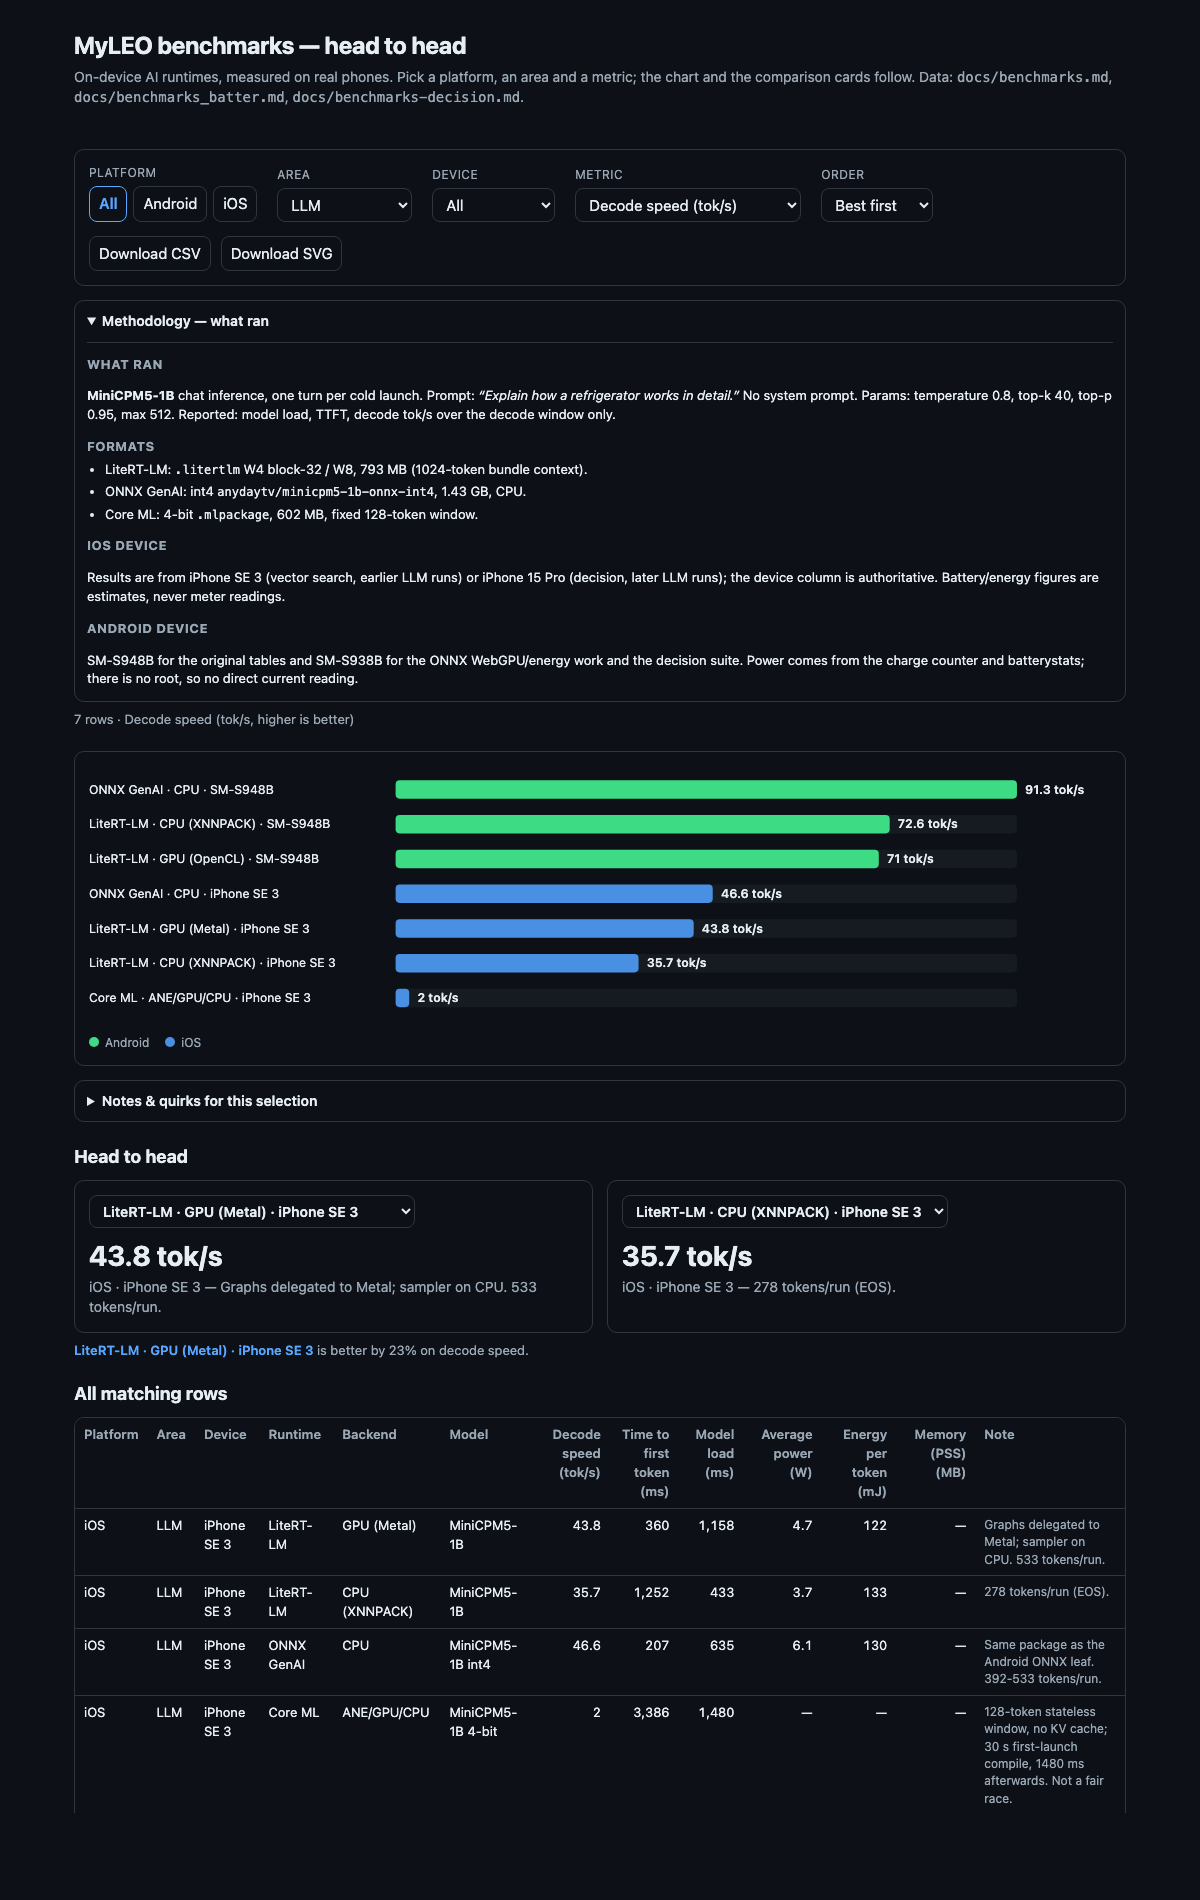
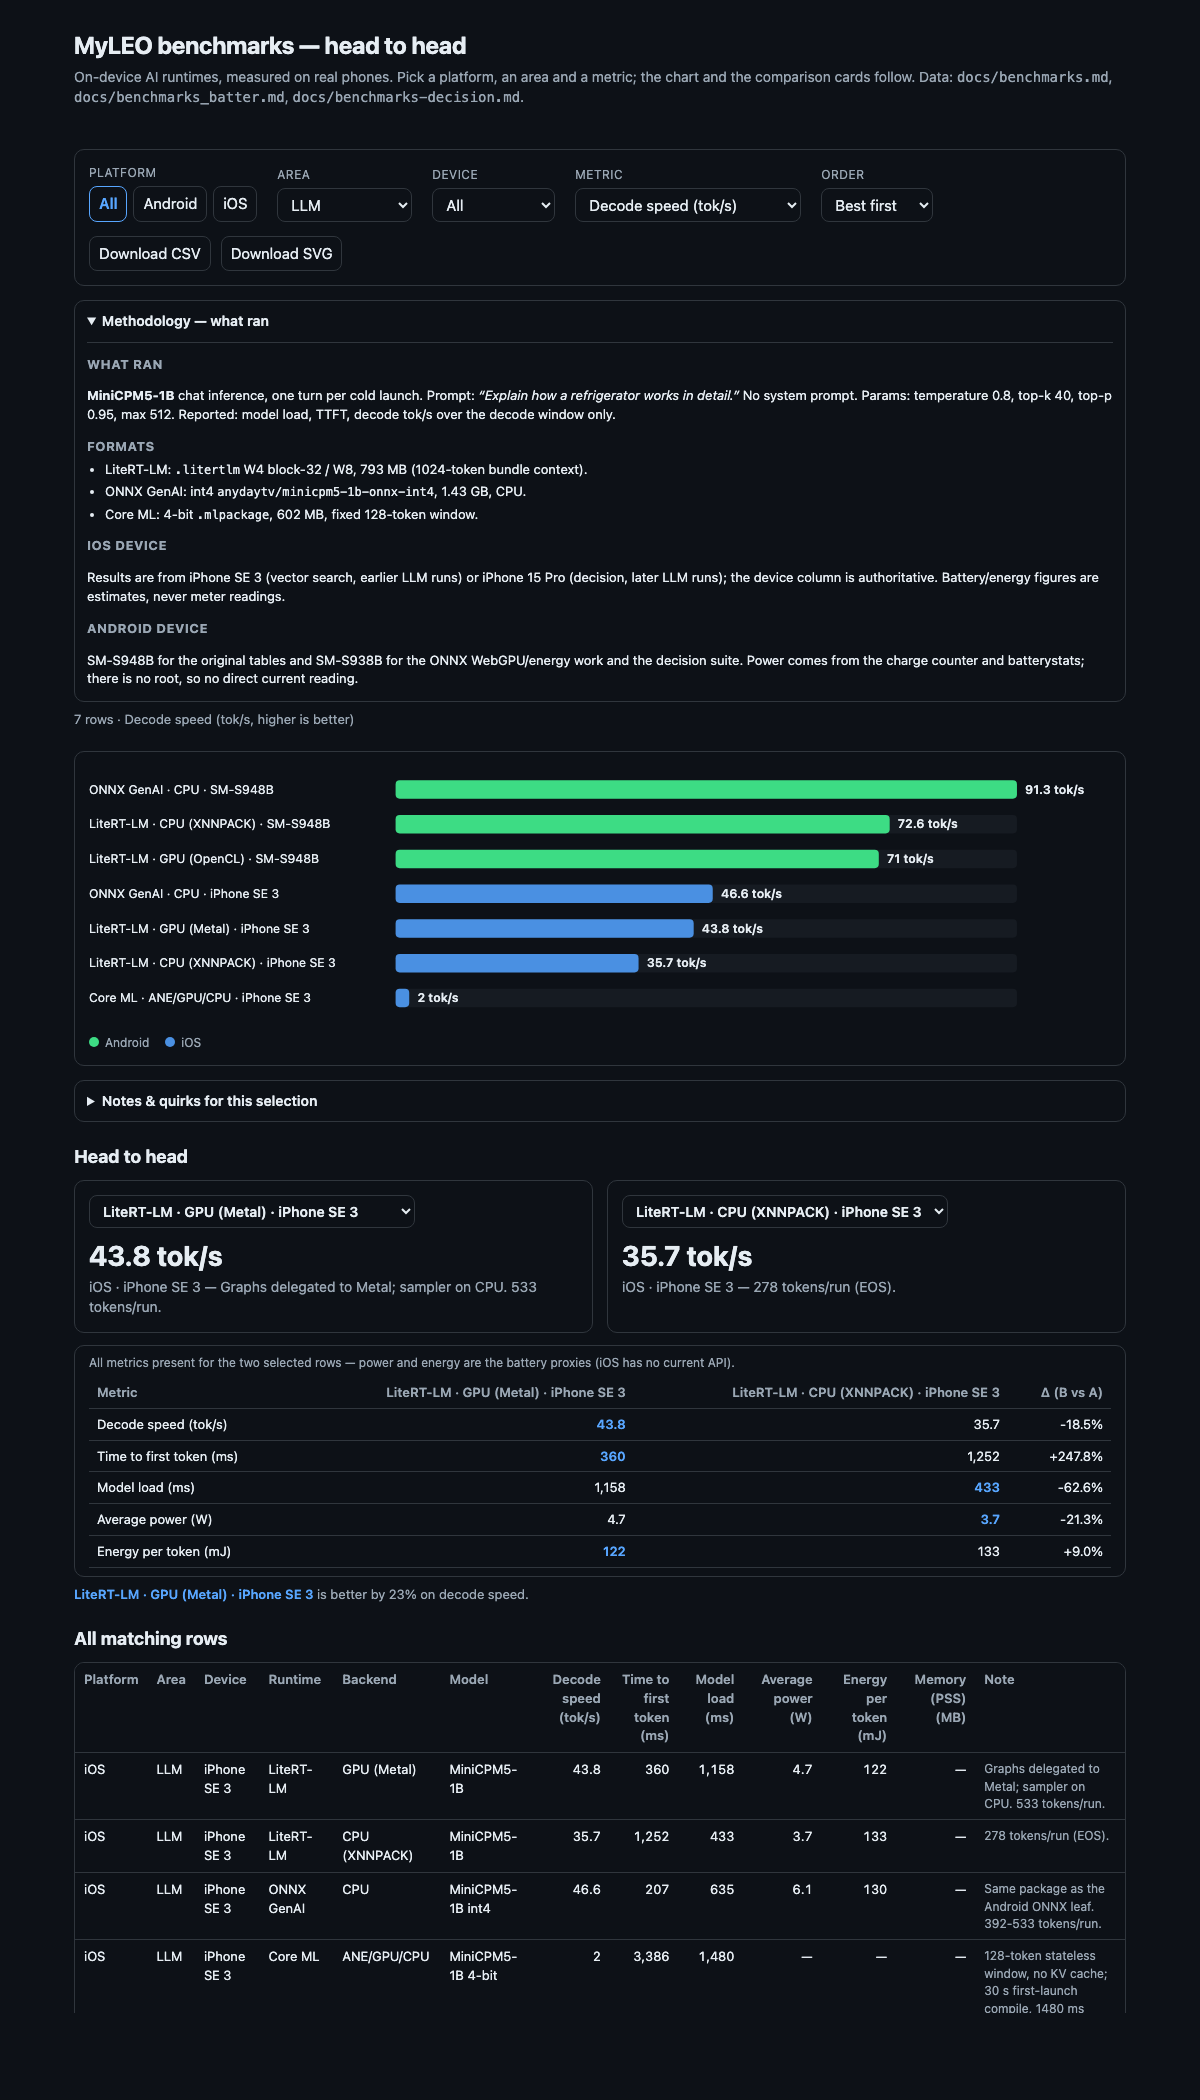
docs(benchmarks): head-to-head compares every metric, not just the selected one
The two cards still show the selected metric, but a new side-by-side table lists
every metric both rows have: decode speed, TTFT, model load, average power and
energy per token/chunk/decision (plus memory where present). Better cells are
highlighted and the last column is B relative to A, so throughput and battery
proxies are visible without switching the metric selector.

Headers now include the backend, so GPU and CPU lanes no longer look identical.
PNG re-rendered and the dashboard guide documents the table.

diff --git a/docs/benchmarks.html b/docs/benchmarks.html
@@ -59,6 +59,15 @@
   .actions { display:flex; gap:10px; flex-wrap:wrap; }
   a { color: var(--accent); }
 
+  .h2h-table { margin-top:12px; border:1px solid var(--line); border-radius:10px; padding:8px 14px; }
+  .h2h-table table { width:100%; border-collapse:collapse; font-size:13px; }
+  .h2h-table th, .h2h-table td { padding:6px 8px; border-bottom:1px solid var(--line); text-align:right; }
+  .h2h-table th:first-child, .h2h-table td:first-child { text-align:left; }
+  .h2h-table th { color:var(--muted); font-weight:600; }
+  .h2h-table td.better { color: var(--accent); font-weight:600; }
+  .h2h-table td.missing { color: var(--muted); }
+  .h2h-table caption { text-align:left; color:var(--muted); font-size:12px; padding-bottom:6px; }
+
   details.panel { border:1px solid var(--line); border-radius:10px; margin-top:14px; padding:0 12px; }
   details.panel > summary { cursor:pointer; padding:10px 0; font-weight:600; font-size:14px; }
   details.panel[open] > summary { border-bottom:1px solid var(--line); margin-bottom:10px; }
@@ -146,6 +155,7 @@
         <div class="delta" id="metaB"></div>
       </div>
     </div>
+    <div class="h2h-table" id="h2h-table"></div>
     <p class="hint" id="verdict"></p>
   </section>
 
@@ -596,6 +606,7 @@
     }
     show("valueA", "metaA", a);
     show("valueB", "metaB", b);
+    renderH2HTable(a, b);
     var verdict = $("verdict");
     if (!a || !b || a === b) { verdict.textContent = "Pick two different rows to compare."; return; }
     var low = Math.min(a[state.metric], b[state.metric]);
@@ -605,6 +616,43 @@
                                          : (metric.better === "lower" ? b : a);
     verdict.innerHTML = "<span class='win'>" + esc(labelOf(winner)) + "</span> is better by " +
       pct + "% on " + esc(metric.label.toLowerCase()) + ".";
+  }
+
+
+  function renderH2HTable(a, b) {
+    var host = document.getElementById("h2h-table");
+    if (!a || !b || a === b) { host.innerHTML = ""; return; }
+    var rows = [];
+    METRICS.forEach(function (m) {
+      var av = typeof a[m.key] === "number" ? a[m.key] : null;
+      var bv = typeof b[m.key] === "number" ? b[m.key] : null;
+      if (av === null && bv === null) return;
+      var delta = null;
+      if (av !== null && bv !== null && av !== 0) delta = (bv - av) / av * 100;
+      rows.push({ m: m, av: av, bv: bv, delta: delta });
+    });
+    if (!rows.length) { host.innerHTML = ""; return; }
+
+    var html = "<table><caption>All metrics present for the two selected rows — " +
+      "power and energy are the battery proxies (iOS has no current API).</caption>" +
+      "<thead><tr><th>Metric</th><th>" + esc(a.runtime) + " · " + esc(a.backend) + " · " + esc(a.device) +
+      "</th><th>" + esc(b.runtime) + " · " + esc(b.backend) + " · " + esc(b.device) + "</th><th>Δ (B vs A)</th></tr></thead><tbody>";
+    rows.forEach(function (row) {
+      var m = row.m;
+      var aBetter = row.av !== null && row.bv !== null
+        ? (m.better === "lower" ? row.av < row.bv : row.av > row.bv) : null;
+      var bBetter = aBetter === null ? null : !aBetter;
+      var deltaText = row.delta === null ? "—"
+        : (row.delta > 0 ? "+" : "") + row.delta.toFixed(1) + "%";
+      html += "<tr><td>" + esc(m.label) + " (" + esc(m.unit) + ")</td>" +
+        "<td class='" + (aBetter ? "better" : "") + "'>" +
+          (row.av === null ? "—" : fmt(row.av)) + "</td>" +
+        "<td class='" + (bBetter ? "better" : "") + "'>" +
+          (row.bv === null ? "—" : fmt(row.bv)) + "</td>" +
+        "<td>" + deltaText + "</td></tr>";
+    });
+    html += "</tbody></table>";
+    host.innerHTML = html;
   }
 
   // ---------- table ----------

diff --git a/docs/benchmarks-dashboard.md b/docs/benchmarks-dashboard.md
@@ -9,6 +9,11 @@ Each area opens on the metric that answers “which runtime is faster?” — de
 LLM, embed ms/chunk for vector search, decision ms/prompt for the Julia-1 suite. It does not
 default to *load* (ONNX loads ~0.3 s slower on the decision lane yet is ~13× faster per prompt).
 
+The head-to-head cards are followed by a **side-by-side table** covering every metric both rows
+have — decode speed, TTFT, model load, average power, energy per token/chunk/decision and memory.
+Power and energy are the battery proxies (iOS has no current API); the better cell is highlighted
+and the last column is B relative to A.
+
 Two collapsible panels sit above and below the chart:
 
 - **Methodology — what ran** (open by default): the model, prompt/corpus/suite and parameters for
